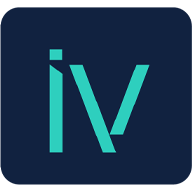
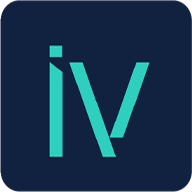
update

diff --git a/src/app/layout.tsx b/src/app/layout.tsx
@@ -12,11 +12,11 @@ export const metadata: Metadata = {
 
   icons: {
     icon: [
-      { url: "/icon-192.png?v=2", sizes: "192x192", type: "image/png" },
-      { url: "/icon-512.png?v=2", sizes: "512x512", type: "image/png" },
+      { url: "/icon-192.png?v=3", sizes: "192x192", type: "image/png" },
+      { url: "/icon-512.png?v=3", sizes: "512x512", type: "image/png" },
     ],
     apple: [
-      { url: "/icon-512.png?v=2", sizes: "512x512", type: "image/png" },
+      { url: "/icon-512.png?v=3", sizes: "512x512", type: "image/png" },
     ],
   },
 
